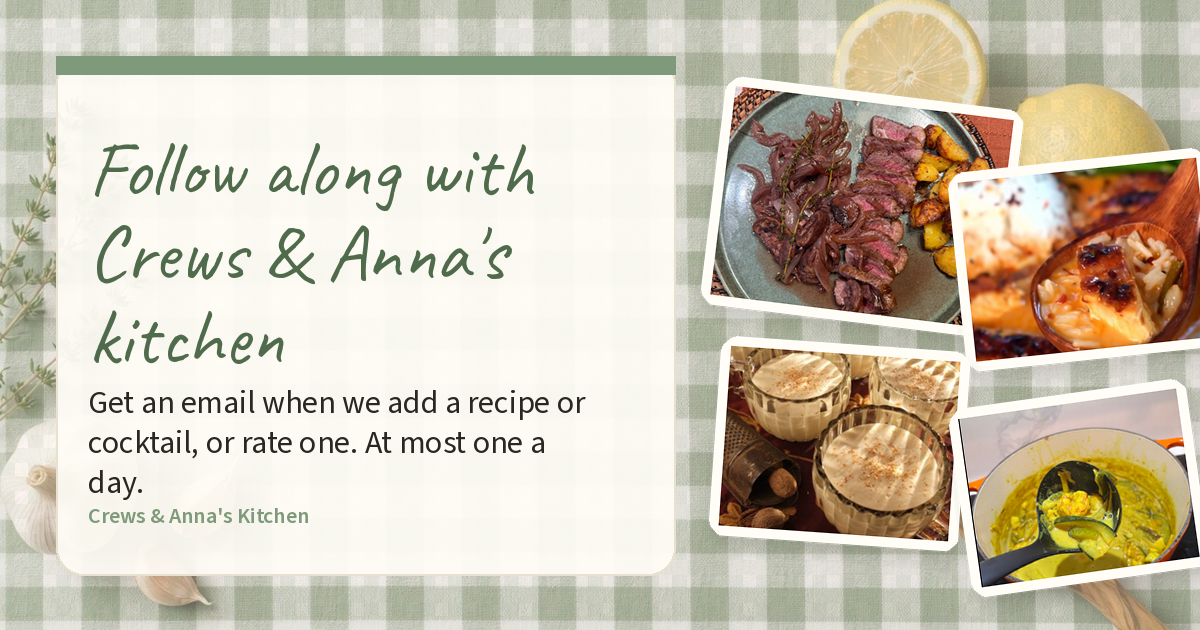
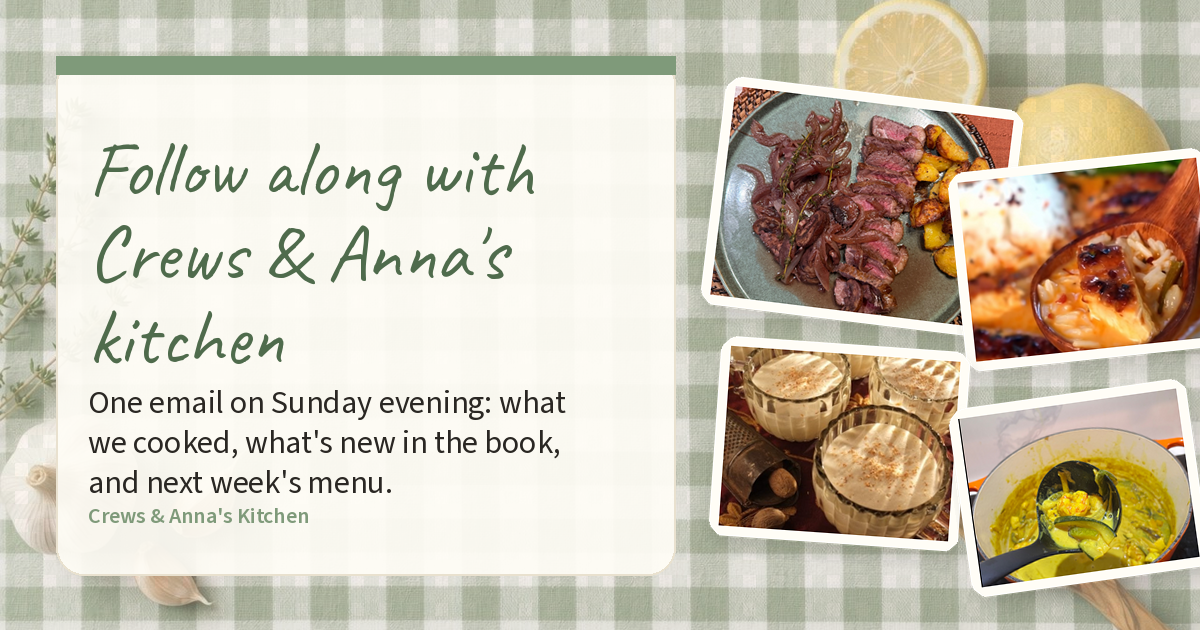
follow: weekly Sunday rollup copy, not daily emails
Followers get one Sunday evening email covering what we cooked and rated, new additions, and next week's menu, filtered by Food, Cocktails, or Both.

Changed region(s): [[0.0617, 0.6032, 0.4933, 0.6635], [0.0617, 0.6937, 0.4625, 0.7238], [0.0617, 0.754, 0.3392, 0.7841]]

diff --git a/_system/scripts/site_render.py b/_system/scripts/site_render.py
@@ -445,11 +445,11 @@ def week_page(live, out):
 
 # ---- /follow and /feed.xml: public additions and ratings only (see feed.py)
 EXPECT = {
-    "both": "You'll get an email when we add a new recipe or cocktail, and when we cook and rate one. At most one email a day, bundled if there's more than one. Unsubscribe anytime.",
-    "food": "You'll get an email when we add a new recipe, and when we cook and rate one. Cocktails stay off the list. At most one email a day, bundled if there's more than one. Unsubscribe anytime.",
-    "cocktails": "You'll get an email when we add a new cocktail, and when we mix and rate one. Recipes stay off the list. At most one email a day, bundled if there's more than one. Unsubscribe anytime.",
+    "both": "One email on Sunday: what we cooked and rated, new recipes and cocktails, and next week's menu. Unsubscribe anytime.",
+    "food": "One email on Sunday: the dinners we cooked and rated, new recipes, and next week's menu. Unsubscribe anytime.",
+    "cocktails": "One email on Sunday: the drinks we mixed and rated, new cocktails, and what's on the bar next week. Unsubscribe anytime.",
 }
-OG_DESC = "Get an email when we add a recipe or cocktail, or rate one. At most one a day. Pick food, cocktails, or both."
+OG_DESC = "One email on Sunday evening: what we cooked and rated, new recipes and cocktails, and next week's menu. Pick food, cocktails, or both."
 FOLLOW_CSS = """.follow .ask{margin:-46px auto 0;max-width:760px}
 .follow .lede{margin:0 0 16px;color:#4b463e;font-size:16px}
 .pills{display:flex;gap:8px;flex-wrap:wrap;margin:0 0 8px}
@@ -579,7 +579,7 @@ def follow_page(live, out):
 <section><div class=wrap>
 <form id=followform class="sheet ask" method="post" action="/api/follow">
 <h1 class=hand>Follow along with Crews &amp; Anna's kitchen</h1>
-<p class=lede>Get an email when we add a new dish or rate one.</p>
+<p class=lede>One email on Sunday evening: what we cooked, what's new, and what's on the menu next week.</p>
 <div class=pills role=radiogroup aria-label="What to follow">
 <label><input type=radio name=interest value=food> Food</label>
 <label><input type=radio name=interest value=cocktails> Cocktails</label>

diff --git a/_system/scripts/follow_og.py b/_system/scripts/follow_og.py
@@ -98,7 +98,7 @@ def build():
         draw.text((tx, ty), line, font=title_font, fill=SAGE_D)
         ty += 84
     ty += 8
-    sub = "Get an email when we add a recipe or cocktail, or rate one. At most one a day."
+    sub = "One email on Sunday evening: what we cooked, what's new in the book, and next week's menu."
     for line in wrap(draw, sub, body_font, 500):
         draw.text((tx, ty), line, font=body_font, fill=INK)
         ty += 40
